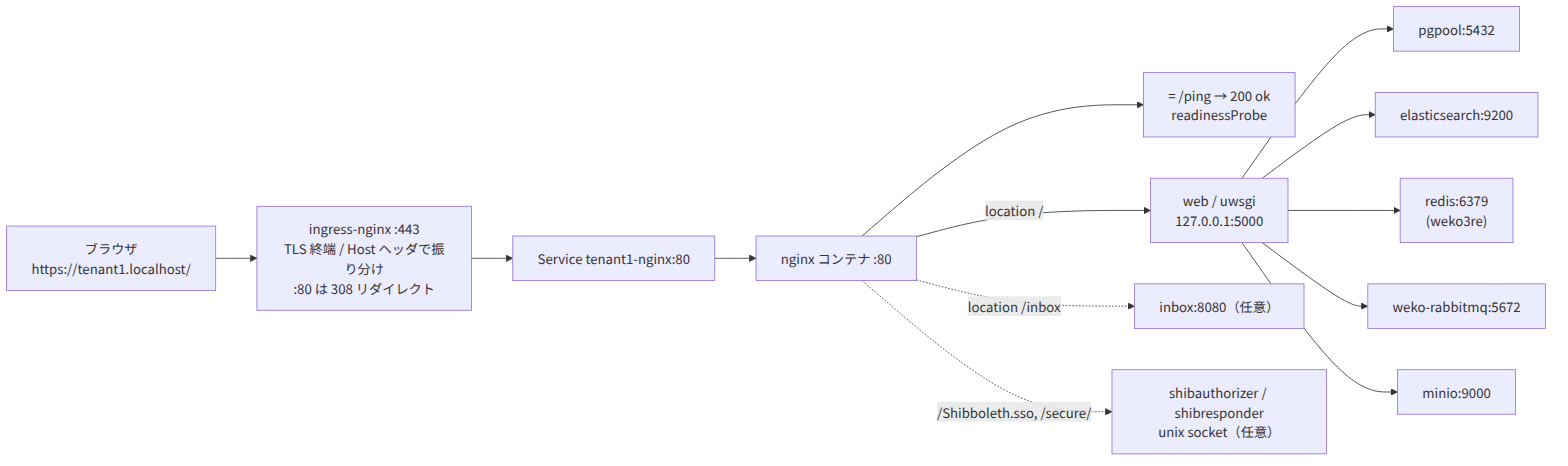
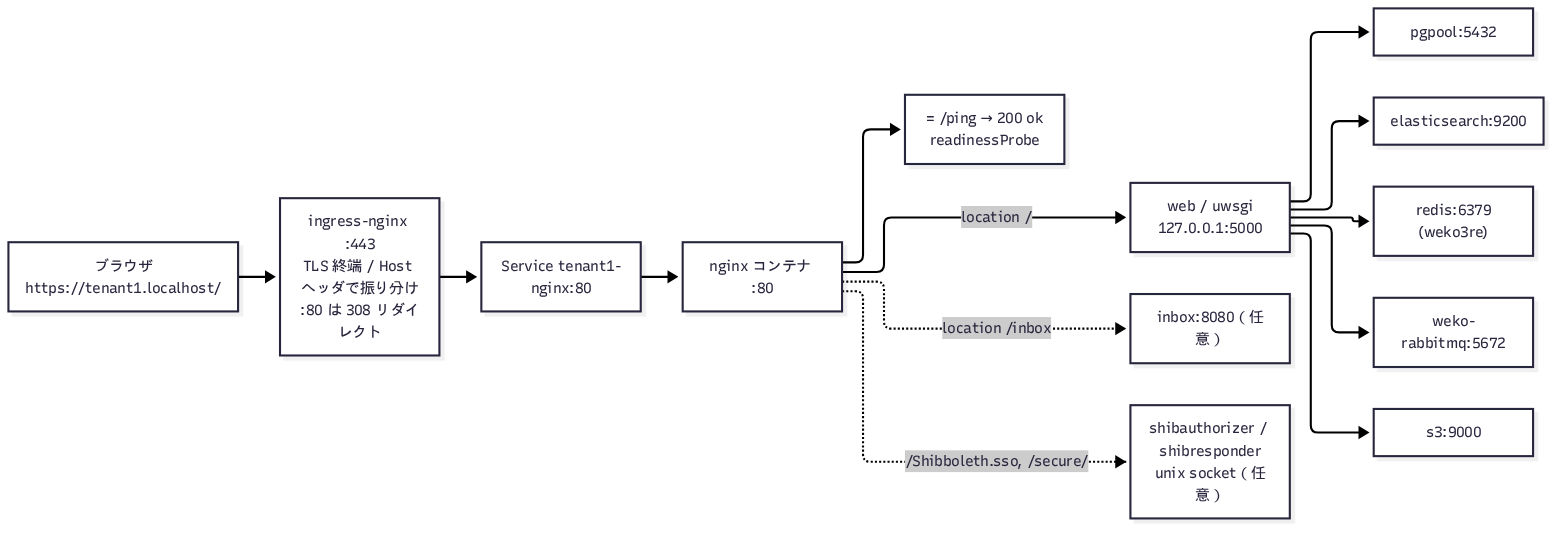
Redraw the arm64 diagrams with SeaweedFS, and say what amd64 pulls
The PNG copies of the README-arm64 mermaid diagrams still drew MinIO;
regenerate them from the current mermaid source. The amd64 README opening
said only pgpool is pulled; the third-party images are now pulled on the
host too (pull-images-amd64.sh).

diff --git a/weko-k8s-sample/k8s-weko-amd64/README-amd64.md b/weko-k8s-sample/k8s-weko-amd64/README-amd64.md
@@ -1,8 +1,8 @@
 # k8s-weko (amd64) — WEKO3 on kind（amd64 ネイティブ）
 
 amd64 Linux 単一ホスト上に、本番相当の **WEKO3**をベースに構築された**JAIRO Cloud**環境を **kind**
-（Kubernetes-in-Docker）で構築するマニフェスト＋スクリプト一式。すべて **amd64 ネイティブ**で、外部レジストリは不要
-（weko/nginx/ES はソースからローカルビルドして kind ノードへ直接ロードする。pgpool のみ公式イメージを pull）。
+（Kubernetes-in-Docker）で構築するマニフェスト＋スクリプト一式。すべて **amd64 ネイティブ**で、自前のレジストリは不要
+（weko/nginx/ES はソースからローカルビルドし、pgpool などの配布元のイメージはホストで pull して、どちらも kind ノードへ直接ロードする）。
 
 対象ホスト: **amd64 (x86_64) Linux ／ RAM 64GB 以上 ／ 十分な空きディスク**（検証機は 20コア / 121GB RAM）。
 

diff --git a/weko-k8s-sample/k8s-weko-amd64/README-amd64.en.md b/weko-k8s-sample/k8s-weko-amd64/README-amd64.en.md
@@ -2,8 +2,8 @@
 
 Manifests and scripts that build a production-like **JAIRO Cloud** environment, based on **WEKO3**, on a
 single amd64 Linux host using **kind** (Kubernetes-in-Docker). Everything is **amd64 native** and no
-external registry is needed: weko, nginx and ES are built locally from source and loaded straight into
-the kind nodes; only pgpool comes from the official image.
+registry of your own is needed: weko, nginx and ES are built locally from source, the third-party images
+(pgpool among them) are pulled on the host, and both are loaded straight into the kind nodes.
 
 Target host: **amd64 (x86_64) Linux / 64 GB RAM or more / plenty of free disk** (the reference machine
 has 20 cores and 121 GB RAM).
